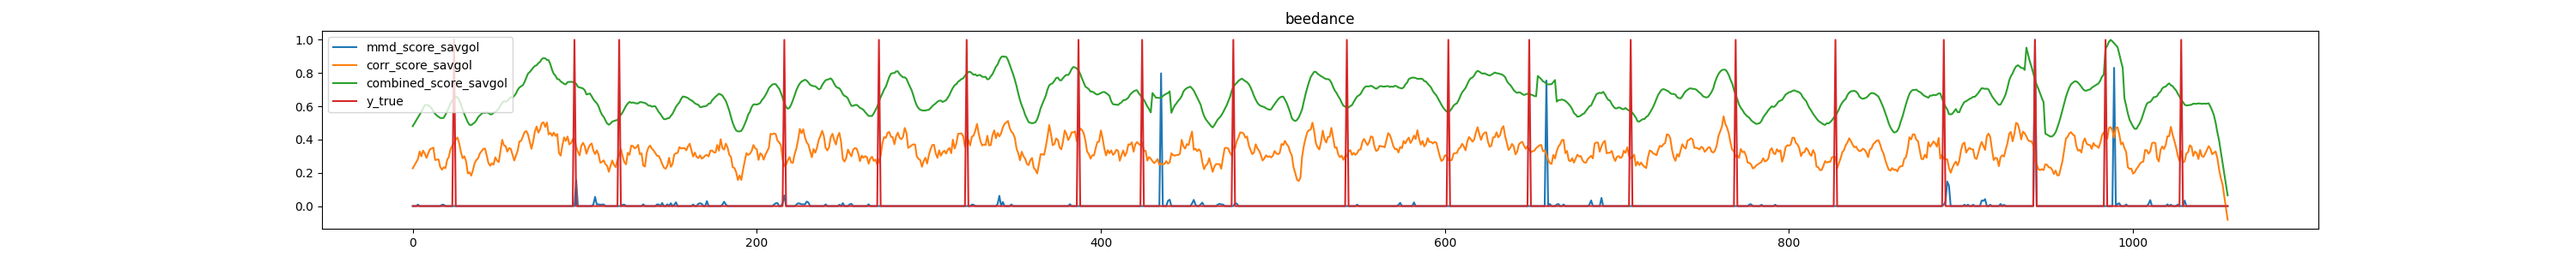
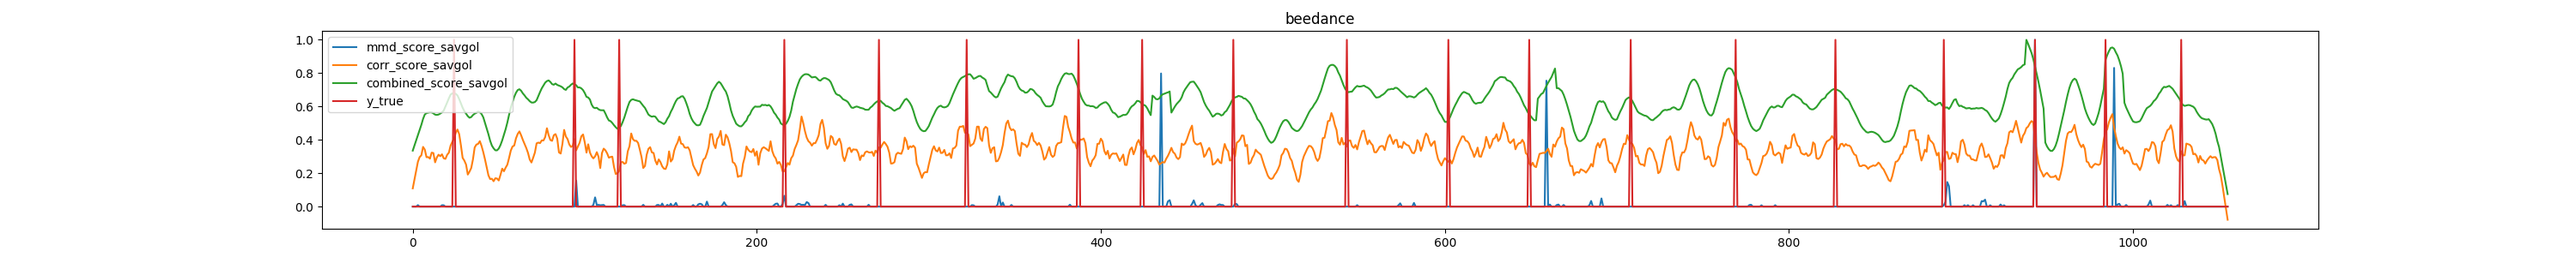
update2-may15

diff --git a/TiVaCPD/hyp_tune.py b/TiVaCPD/hyp_tune.py
@@ -144,8 +144,6 @@ def main():
     #https://towardsdatascience.com/a-conceptual-explanation-of-bayesian-model-based-hyperparameter-optimization-for-machine-learning-b8172278050f
     #https://github.com/WillKoehrsen/hyperparameter-optimization/blob/master/Kaggle%20Version%20of%20Bayesian%20Hyperparameter%20Optimization%20of%20GBM.ipynb
     f1_list = []
-    x_train = x_test
-    y_train = y_test
     print('length data for hyp tuning: ', len(x_train))
     for ind in grid_index: 
         ind = list(ind)

diff --git a/TiVaCPD/cpd_methods.py b/TiVaCPD/cpd_methods.py
@@ -450,6 +450,8 @@ class MMDATVGL_CPD():
         if(not(self.hyp_tuning)):
             if data_type in ['beewaggle', 'beedance', 'occupancy']:
                 self.threshold, self.slice_size, self.alpha_, self.beta = [0.002, 5, 0.4, 0.4]
+                #[0.002, 5, 1, 6] # 0.005 score_threshold
+            #[0.002, 5, 0.4, 0.4]
             #[0.002, 5, 1, 12]
             # [0.2, 14, 5, 0.4] #0.4
             
